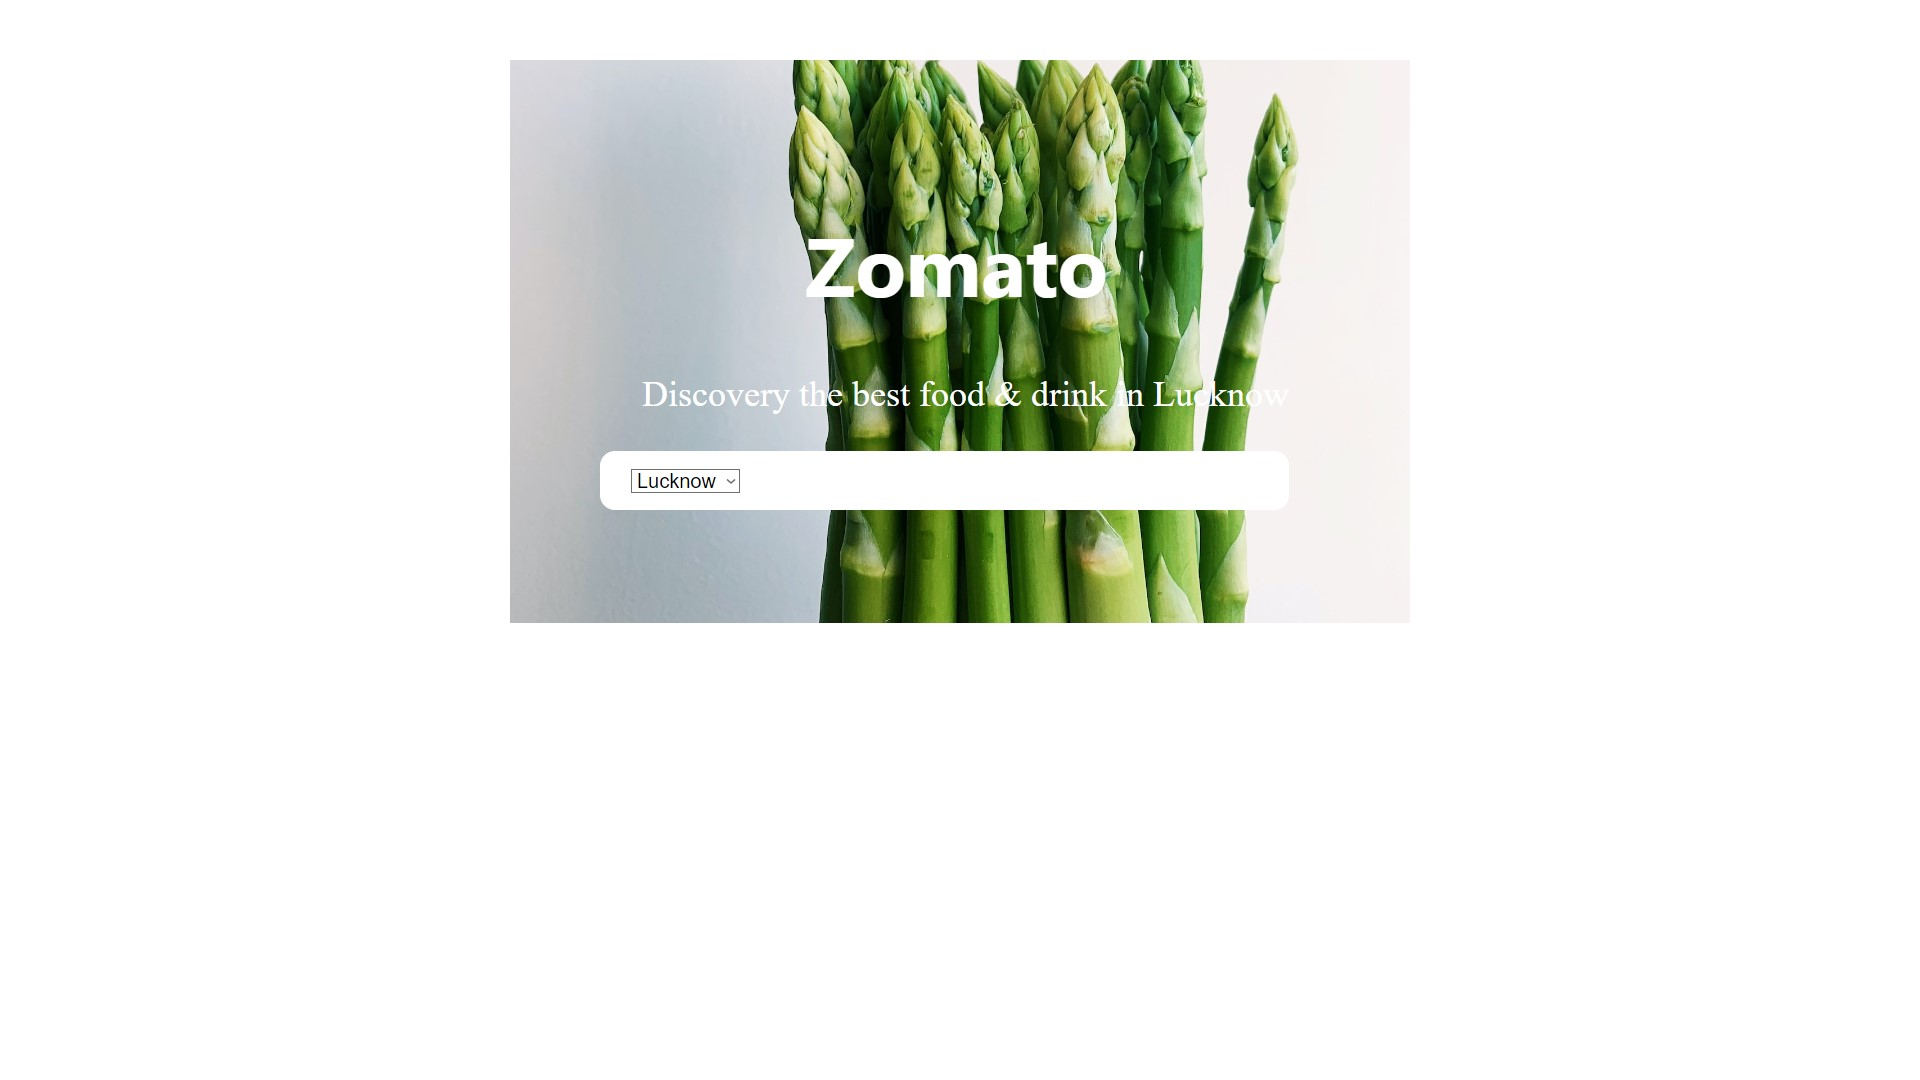
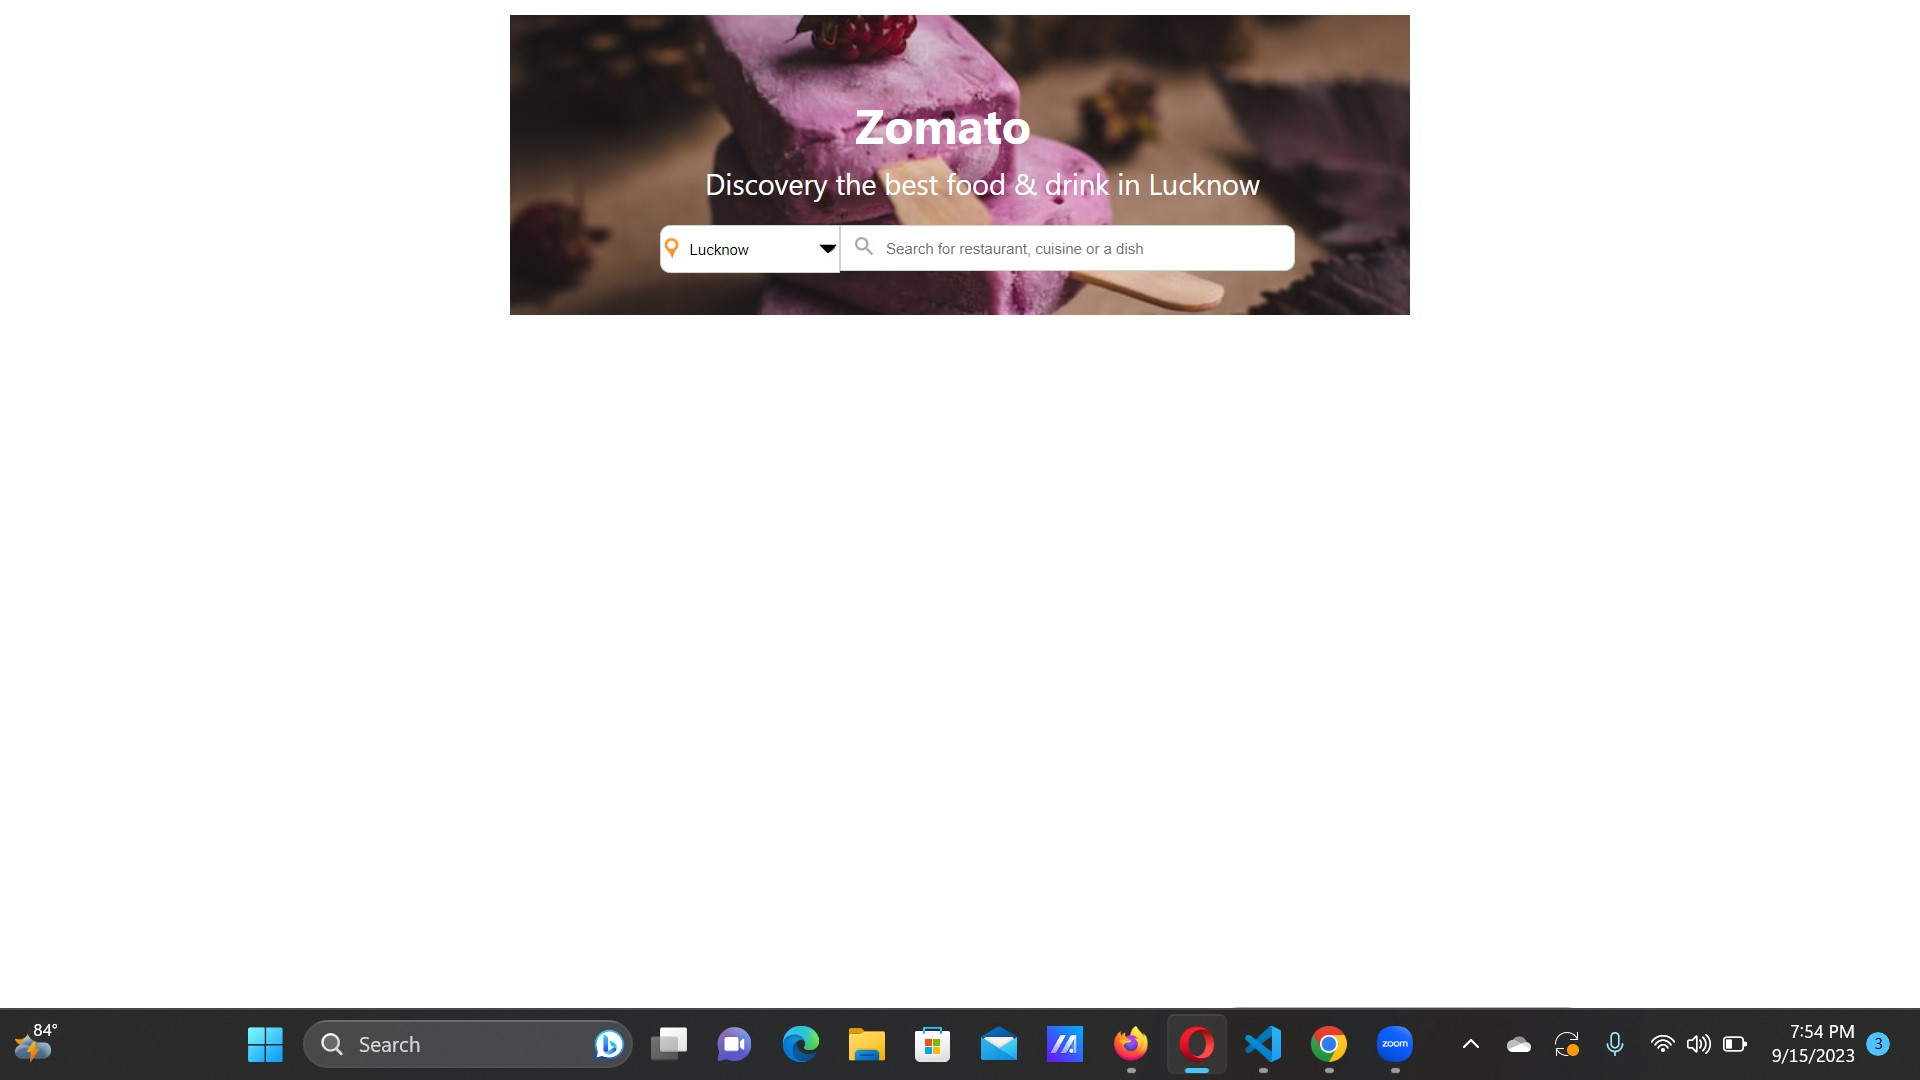
final commit

Changed region(s): [[0.25, 0.0, 0.75, 0.5806], [0.0, 0.9167, 1.0, 1.0]]

diff --git a/Assignment3/style.css b/Assignment3/style.css
@@ -1,55 +1,80 @@
+body{
+    font-family: system-ui, -apple-system, BlinkMacSystemFont, 'Segoe UI', Roboto, Oxygen, Ubuntu, Cantarell, 'Open Sans', 'Helvetica Neue', sans-serif;
+}
 .page{
+    margin: 10px auto;
     position: relative;
     width: 600px;
-    height: 400px;
-    margin: 40px auto;
-    }
-    .page img{
+}
+.page img{
     width: 100%;
-    }
-    .content{
+    opacity: 1;
+}
+.content h1{
     position: absolute;
-    bottom: 100px;
-    padding: 0 10px;
-    }
-    .content h1{
-    text-align: center;
+    top: 30px;
+    left: 230px;
     color: white;
-    margin-left: 66px;
-    font-weight: 600px;
-    font-family:'Segoe UI', Tahoma, Geneva, Verdana, sans-serif;
-    font-size: 55px;
-    }
-    .content p{
-    text-align: center;
+}
+.content p{
+    position: absolute;
+    top: 80px;
+    left: 130px;
     color: white;
-    font-size: 24px;
-    margin-left: 78px;
-    }
-    .btn{
-    border: none;
-    border-radius: 40px;
-    font-size: 15px;
-    background-color: white;
-    color: black;
-    padding: 12px 27px;
-    margin-left: 215px;
-    margin-top: 23px;
-    }
-    .search{
-    border: 1px solid white;
-    background-color: white;
-    padding: 10px 20px;
-    border-radius: 10px;
-    margin-left: 50px;
-    margin-top: 20px;
-    }
-    option{
-    background:#fff !important ;
-    }
-    select{
-    background:#fff ;
-    border: none;
-    outline: none;
-    margin-right: 30px;
-    }
+    font-size: larger;
+}
+.content img{
+    width: 15px;
+    
+}
+.dropdown{
+    width: 12px !important;
+}
+.search{
+    width:12px !important;
+}
+.search-bar{
+ position: absolute;
+ top: 140px;
+ left: 100px;
+}
+.loc{
+    position: absolute;
+    top:8px;
+}
+.dropdown{
+    position: absolute;
+    top:9px;
+    left: 106px;
+}
+.search-bar select{
+    width: 120px;
+    padding-top: 9px;
+    padding-bottom: 9px;
+    padding-left: 15px;
+    padding-right: 40px;
+    font-size:x-small;
+    border: 1px solid lightgray;
+    border-top-left-radius: 7px;
+    border-bottom-left-radius: 7px;
+    
+}
+.search{
+    position: absolute;
+    top:8px;
+    left:130px;
+    z-index: 2;
+}
+.search-bar input{
+    position: absolute;
+    top:0;
+    width: 270px;
+    padding-top: 9px;
+    padding-bottom: 9px;
+    padding-left: 30px;
+    border:1px solid lightgray ;
+    border-top-right-radius: 7px;
+    border-bottom-right-radius: 7px;
+    z-index: 1;
+    font-size: x-small;
+}

diff --git a/Assignment4/style.css b/Assignment4/style.css
@@ -1,31 +1,26 @@
 .profile{
+    margin: 10px auto;
+    width: 400px;
     position: relative;
-    width: 403px;
-    margin: 30px auto;
-    border: 2px solid whitesmoke;
-    border-radius: 12px;
-    }
-    .profile-bg{
+}
+.profile-bg{
     width: 100%;
-    height: 20vh;
-    border-top-right-radius: 12px;
-    border-top-left-radius: 12px;
-    }
-    .user{
+    border-top-left-radius: 14px;
+    border-top-right-radius: 14px;
+}
+.profile-header{
     position: absolute;
-    height: 80px;
-    width: 80px;
+}
+.user{
     border-radius: 50%;
-    left: 168px;
-    bottom: 0;
-    margin-bottom: -40px;
-    border: 2px solid white;
-    }
-    .content{
+    position: absolute;
+    left: 160px;
+    bottom: -30px;
+}
+.content{
+    margin: 20px;
     text-align: center;
-    margin: 30px;
-    }
-    .profileheader{
-    position: relative;
-    }
-
+    position: absolute;
+    top:100px;
+    left: 50px;
+}

diff --git a/Assignment3/index.html b/Assignment3/index.html
@@ -8,14 +8,20 @@
 </head>
 <body>
     <div class="page">
-        <img src="https://source.unsplash.com/1600x1000/?food" alt="">
+        <img src="https://source.unsplash.com/600x200/?food" alt="">
         <div class="content">
         <h1>Zomato</h1>
         <p>Discovery the best food & drink in Lucknow</p>
-        <div class="search">
+        <div class="search-bar">
+        <img class="loc"src="location.png" alt="location-icon" />
         <select name="" id="">
         <option value="1">Lucknow</option>
+        <option value="2">Chennai</option>
+        <option value="3">Bengalure</option>
         </select>
+        <img class="dropdown"src="dropdown-icon.jpg" />
+        <img src="search.jpg" class="search" />
+        <input type="text" placeholder="Search for restaurant, cuisine or a dish" />
         </div>
     </div>
 </body>

diff --git a/Assignment4/index.html b/Assignment4/index.html
@@ -9,15 +9,15 @@
 <body>
     <div class="profile">
         <div class="profileheader">
-        <img src="https://source.unsplash.com/1600x600/?nature" alt=""
+        <img src="https://source.unsplash.com/500x100/?nature" alt=""
         class="profile-bg">
-        <img src="https://source.unsplash.com/600x600/?man" alt=""
+        <img src="https://source.unsplash.com/80x80/?women" alt=""
         class="user">
         </div>
         <div class="content">
-        <h1>Bholasankar nanda</h1>
-        <p>Student</p>
+        <h1>SHIVANI ANANDAN</h1>
+        <p>Frontend Developer At Zoho</p>
         </div>
-        </div>
+    </div>
 </body>
 </html>
